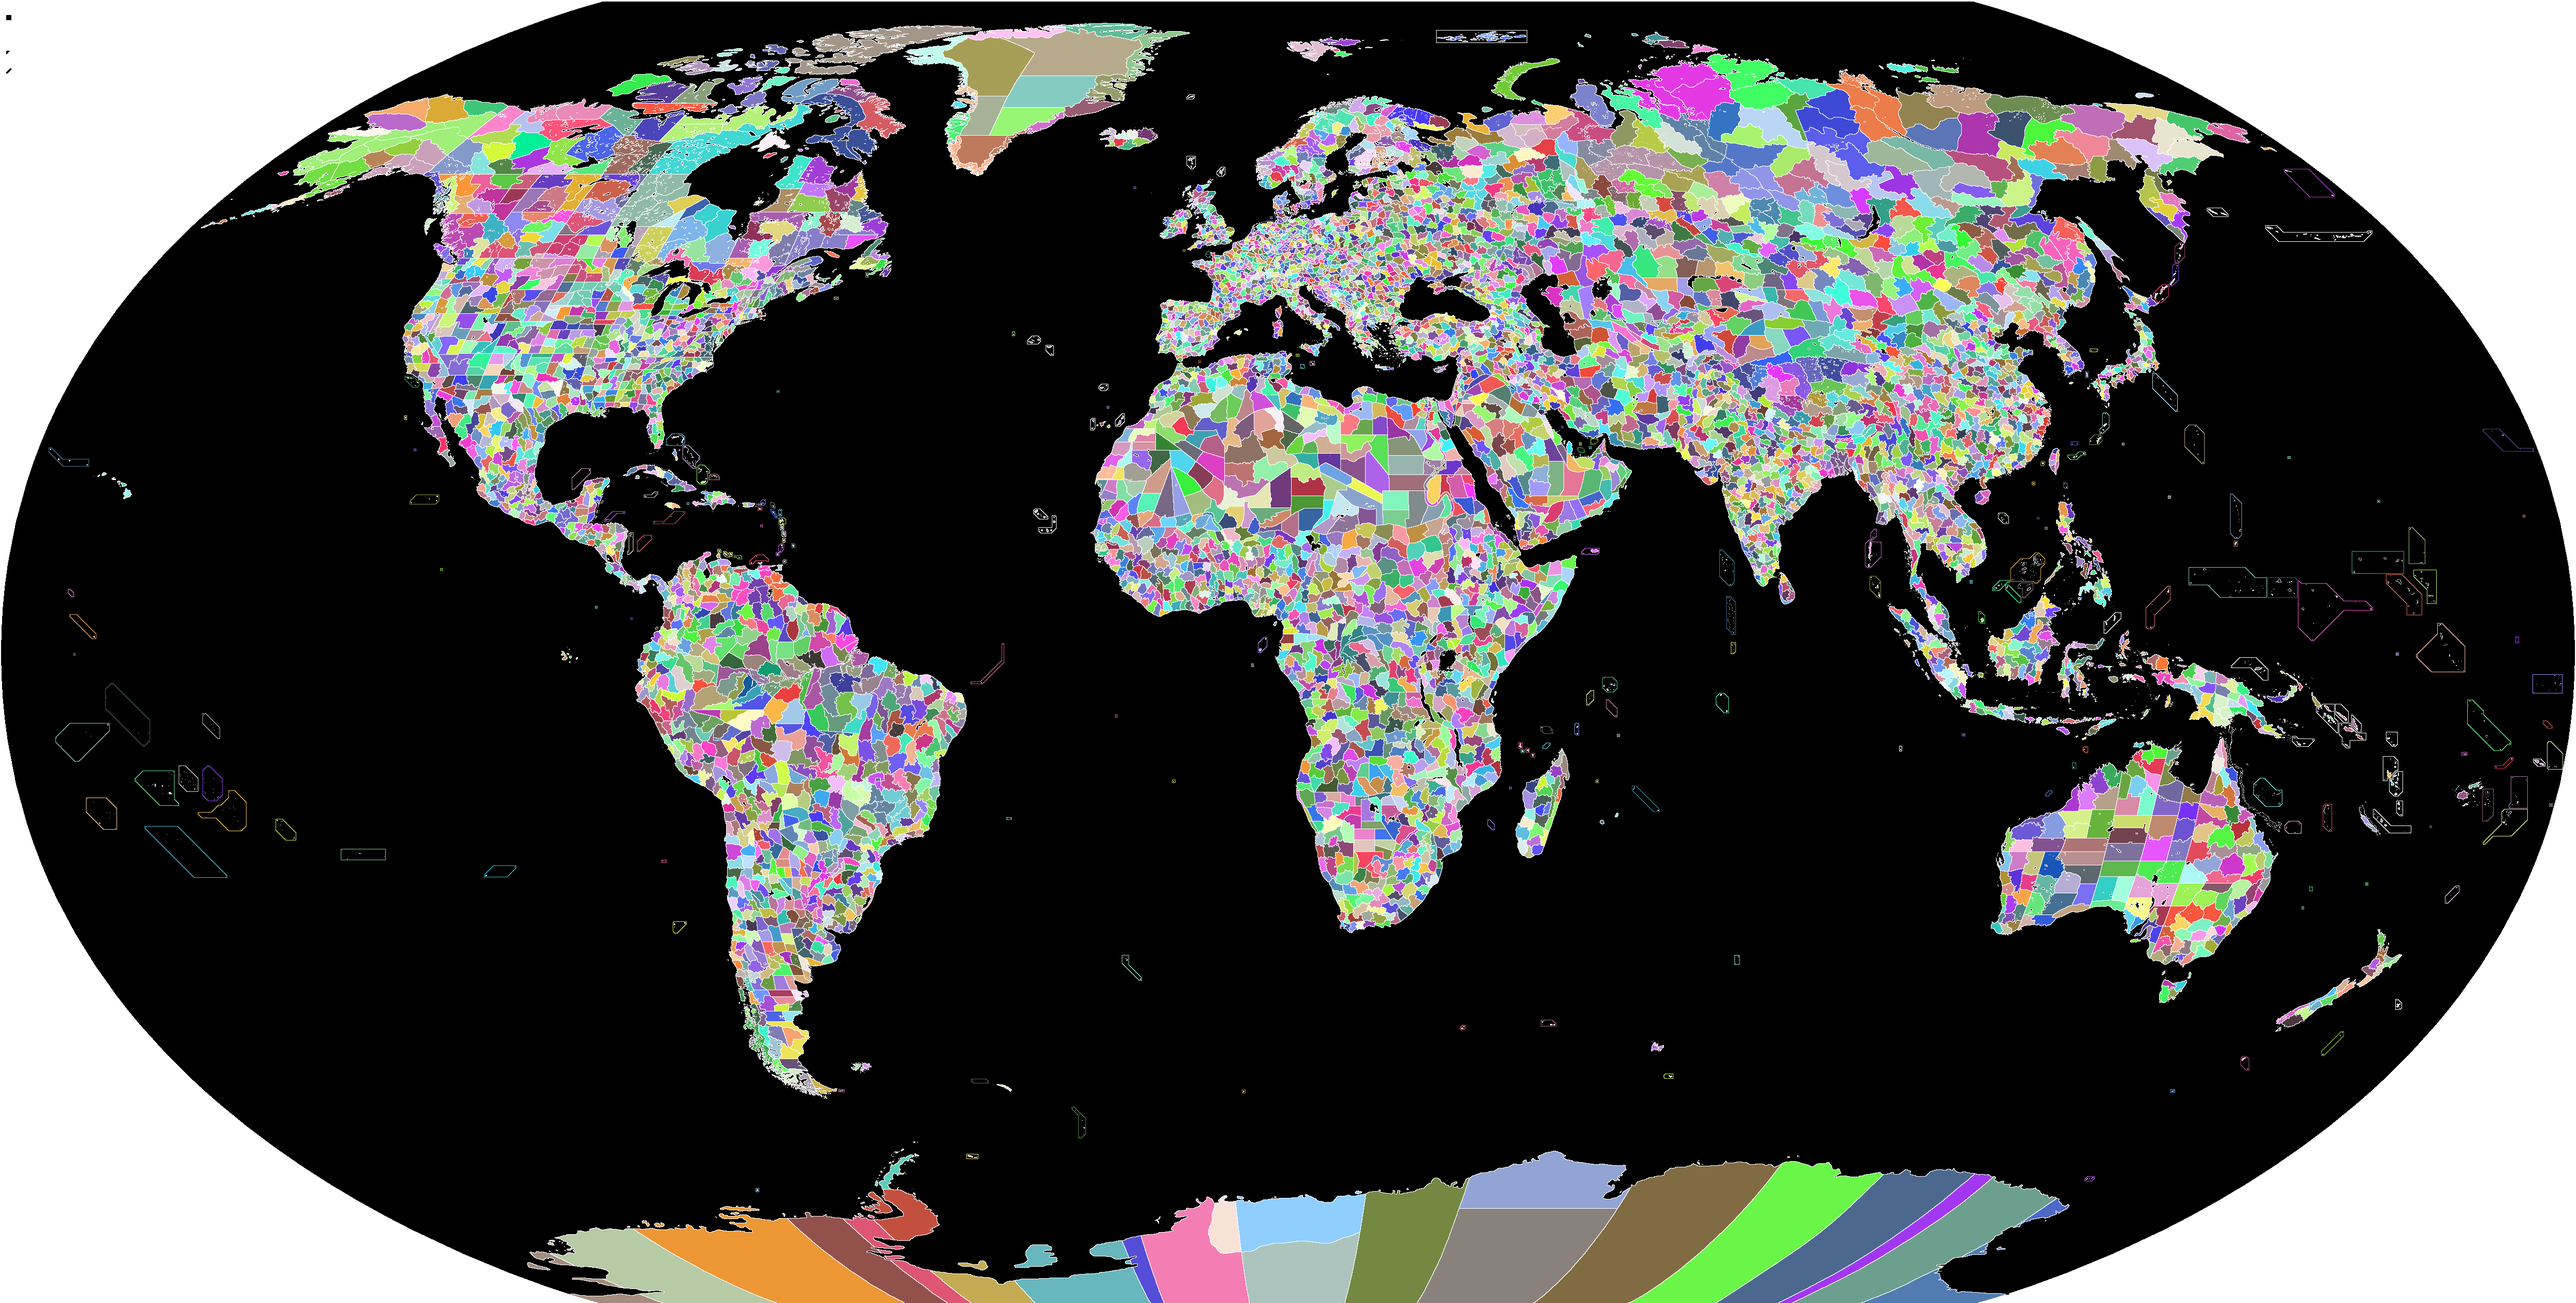
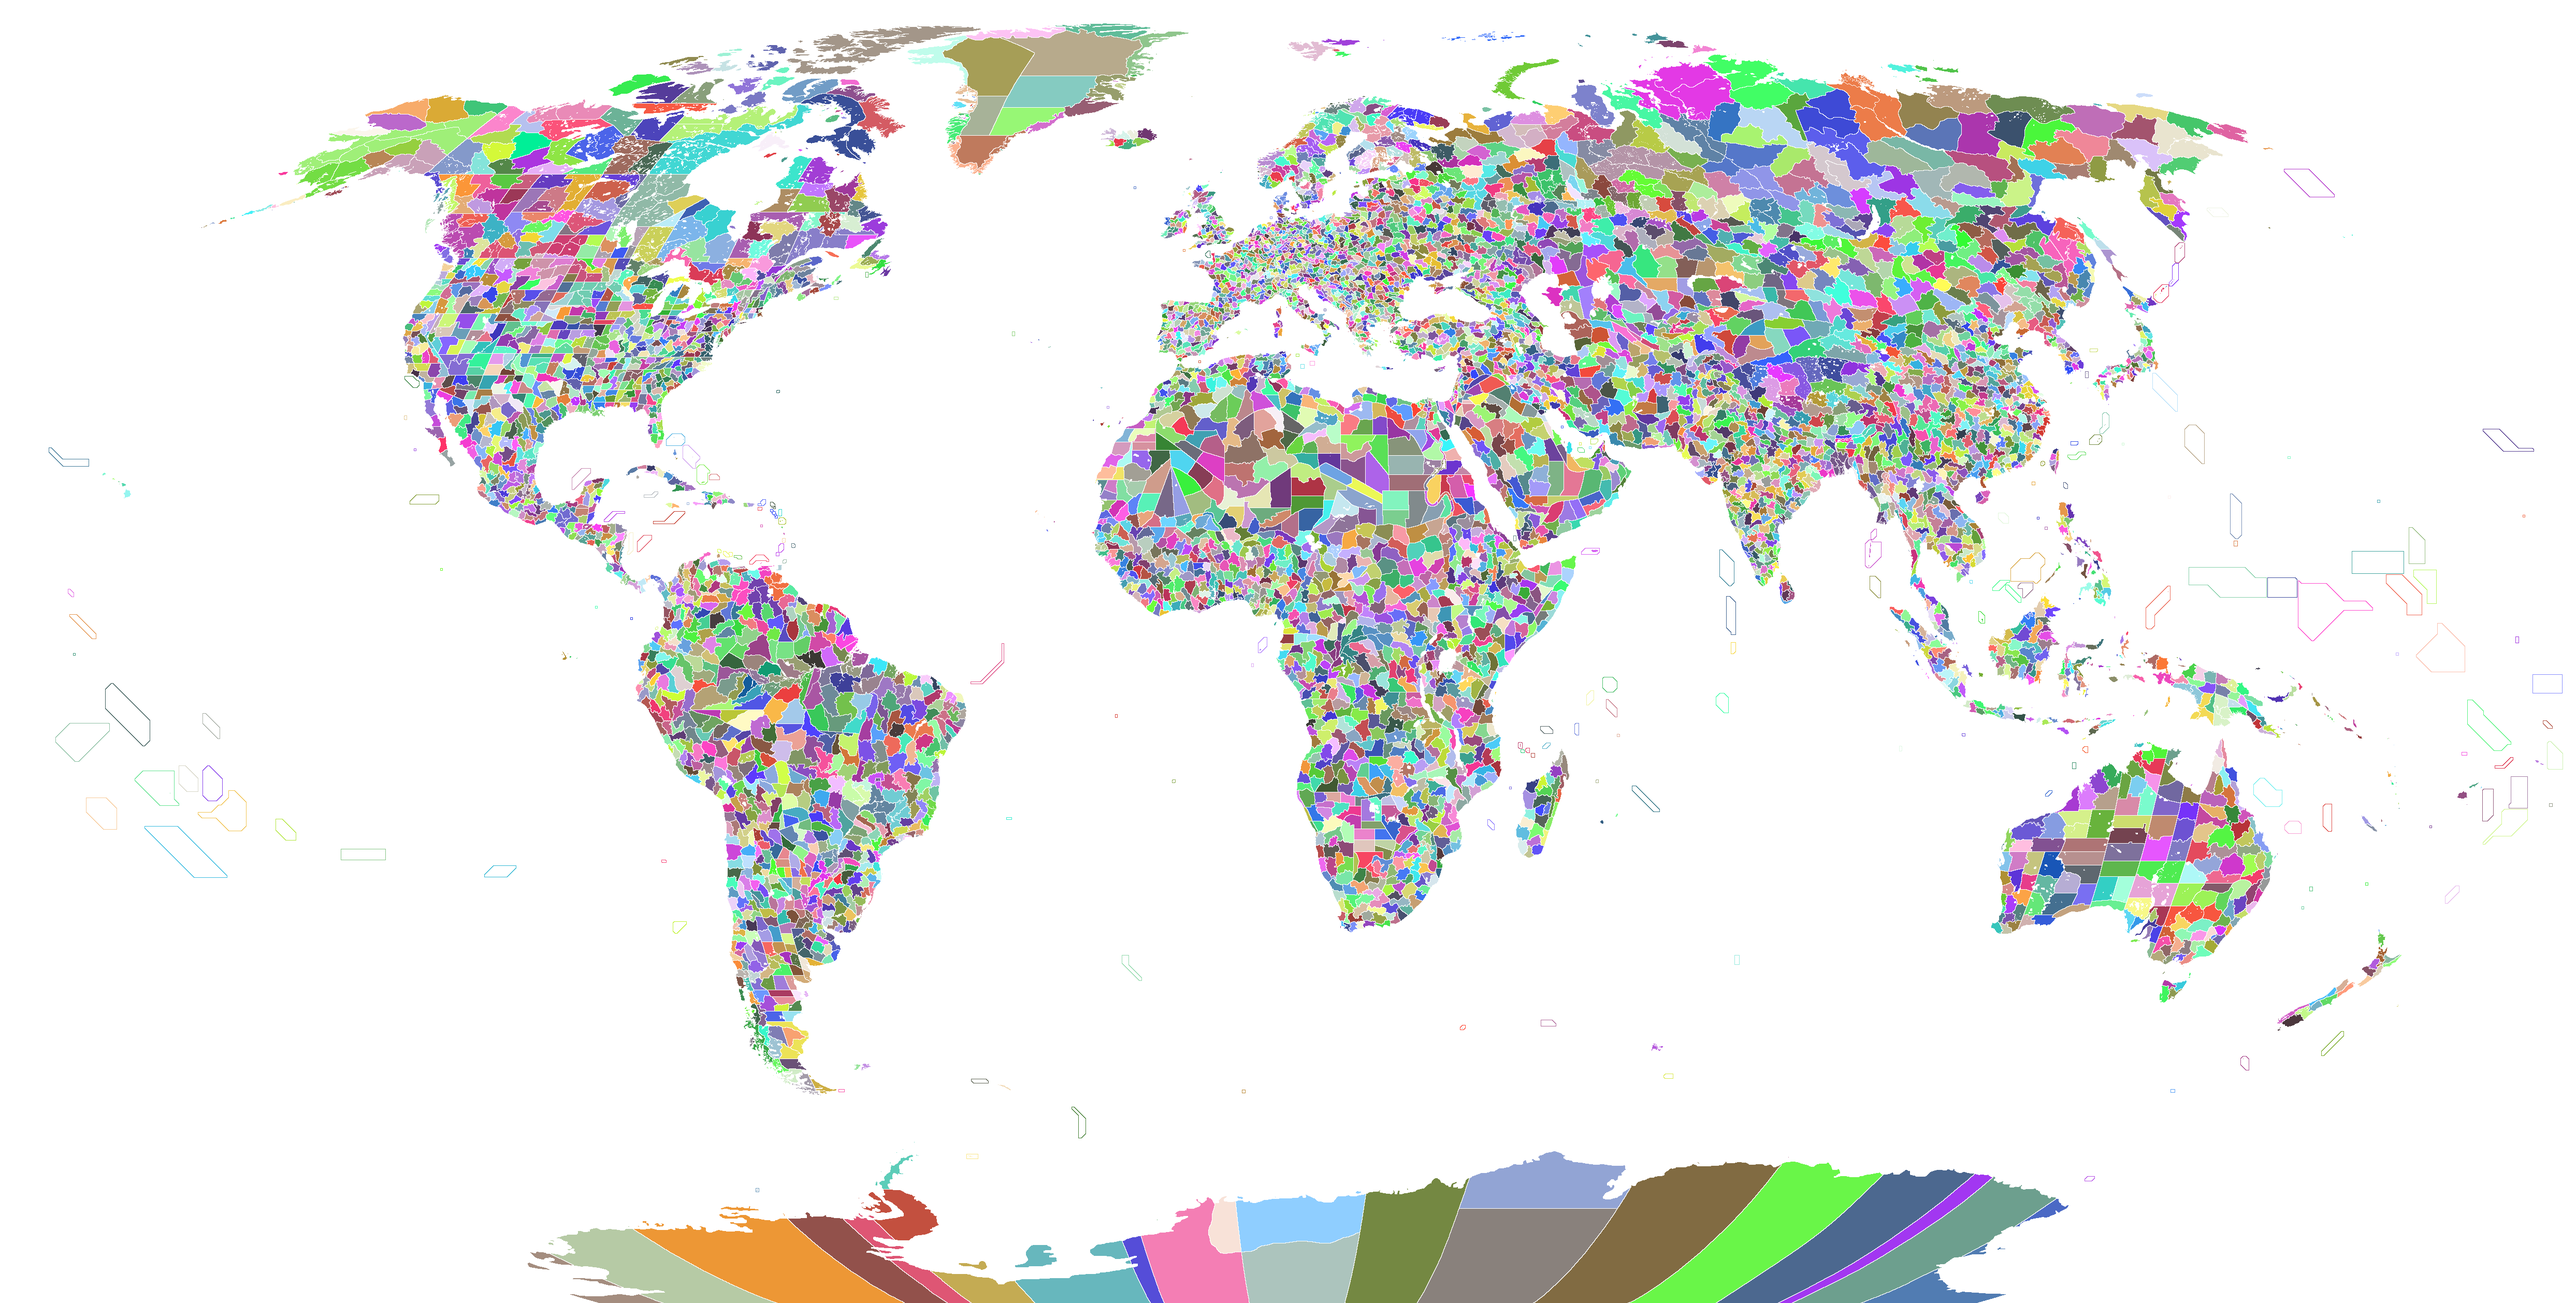
0.0.0.0.1.53

diff --git a/src/com/romagame/ui/MapPanel.java b/src/com/romagame/ui/MapPanel.java
@@ -117,18 +117,32 @@ public class MapPanel extends JPanel {
     }
 
     private void loadMapBackground() {
+        System.out.println("[DEBUG] Entering loadMapBackground()");
         try {
             File mapFile = new File("src/resources/img/start1.png");
+            System.out.println("[DEBUG] Checking for map background at: " + mapFile.getAbsolutePath());
+            if (!mapFile.exists()) {
+                System.err.println("[ERROR] Map background not found at " + mapFile.getAbsolutePath());
+                // Try absolute path fallback (edit this path if needed)
+                mapFile = new File("C:/Users/taylo/Documents/projects/Roma Game/src/resources/img/start1.png");
+                System.out.println("[DEBUG] Fallback absolute path: " + mapFile.getAbsolutePath());
+            }
             if (mapFile.exists()) {
                 mapBackground = ImageIO.read(mapFile);
-                mapLoaded = true;
-                System.out.println("Loaded map background from: " + mapFile.getPath());
+                if (mapBackground != null) {
+                    mapLoaded = true;
+                    System.out.println("[DEBUG] Loaded map background from: " + mapFile.getPath());
+                    System.out.println("[DEBUG] mapBackground loaded: " + mapBackground.getWidth() + "x" + mapBackground.getHeight());
+                } else {
+                    System.err.println("[ERROR] mapBackground is null after ImageIO.read!");
+                    createGradientBackground();
+                }
             } else {
-                System.err.println("ERROR: Map background not found at src/resources/img/start1.png");
+                System.err.println("[ERROR] Map background not found at either relative or absolute path.");
                 createGradientBackground();
             }
         } catch (IOException e) {
-            System.err.println("Could not load map background image: " + e.getMessage());
+            System.err.println("[ERROR] Could not load map background image: " + e.getMessage());
             createGradientBackground();
         }
     }
@@ -247,52 +261,7 @@ public class MapPanel extends JPanel {
     }
 
     private void updateProvinceColorMap() {
-        if (provinceMask == null) return;
-        int w = provinceMask.getWidth(), h = provinceMask.getHeight();
-        provinceColorMap = new BufferedImage(w, h, BufferedImage.TYPE_INT_ARGB);
-        
-        for (int y = 0; y < h; y++) {
-            for (int x = 0; x < w; x++) {
-                int argb = provinceMask.getRGB(x, y);
-                int r = (argb >> 16) & 0xFF;
-                int g = (argb >> 8) & 0xFF;
-                int b = argb & 0xFF;
-                
-                // Skip black pixels (ocean)
-                if (r == 0 && g == 0 && b == 0) {
-                    provinceColorMap.setRGB(x, y, 0x00000000);
-                    continue;
-                }
-                
-                String colorKey = String.format("%d,%d,%d", r, g, b);
-                String provinceId = colorKeyToProvinceId.get(colorKey);
-                
-                if (provinceId != null) {
-                    String owner = provinceIdToOwner.get(provinceId);
-                    if (owner != null && !owner.startsWith("Unknown") && !owner.startsWith("Color_")) {
-                        // Use owner color from the province data
-                        String colorStr = nationToColor.get(owner);
-                        if (colorStr != null) {
-                            String[] rgb = colorStr.split(",");
-                            int ownerR = Integer.parseInt(rgb[0]);
-                            int ownerG = Integer.parseInt(rgb[1]);
-                            int ownerB = Integer.parseInt(rgb[2]);
-                            int ownerArgb = (0xFF << 24) | (ownerR << 16) | (ownerG << 8) | ownerB;
-                            provinceColorMap.setRGB(x, y, ownerArgb);
-                        } else {
-                            // Use the original color if no nation color is found
-                            provinceColorMap.setRGB(x, y, argb);
-                        }
-                    } else {
-                        // Use the original color for unknown/color provinces
-                        provinceColorMap.setRGB(x, y, argb);
-                    }
-                } else {
-                    // No province mapping found, use original color
-                    provinceColorMap.setRGB(x, y, argb);
-                }
-            }
-        }
+        // No-op: do not recolor provinces, just use the background image
     }
 
     private void updateBorderOverlay() {
